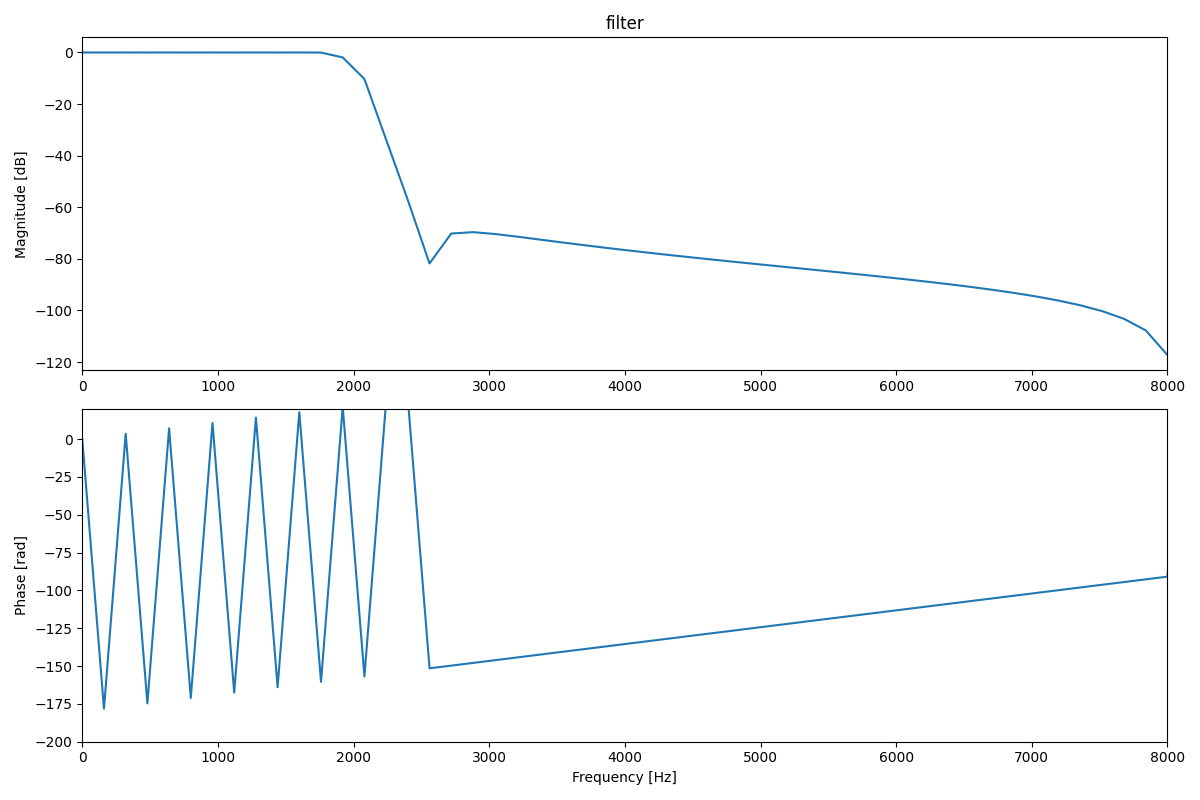
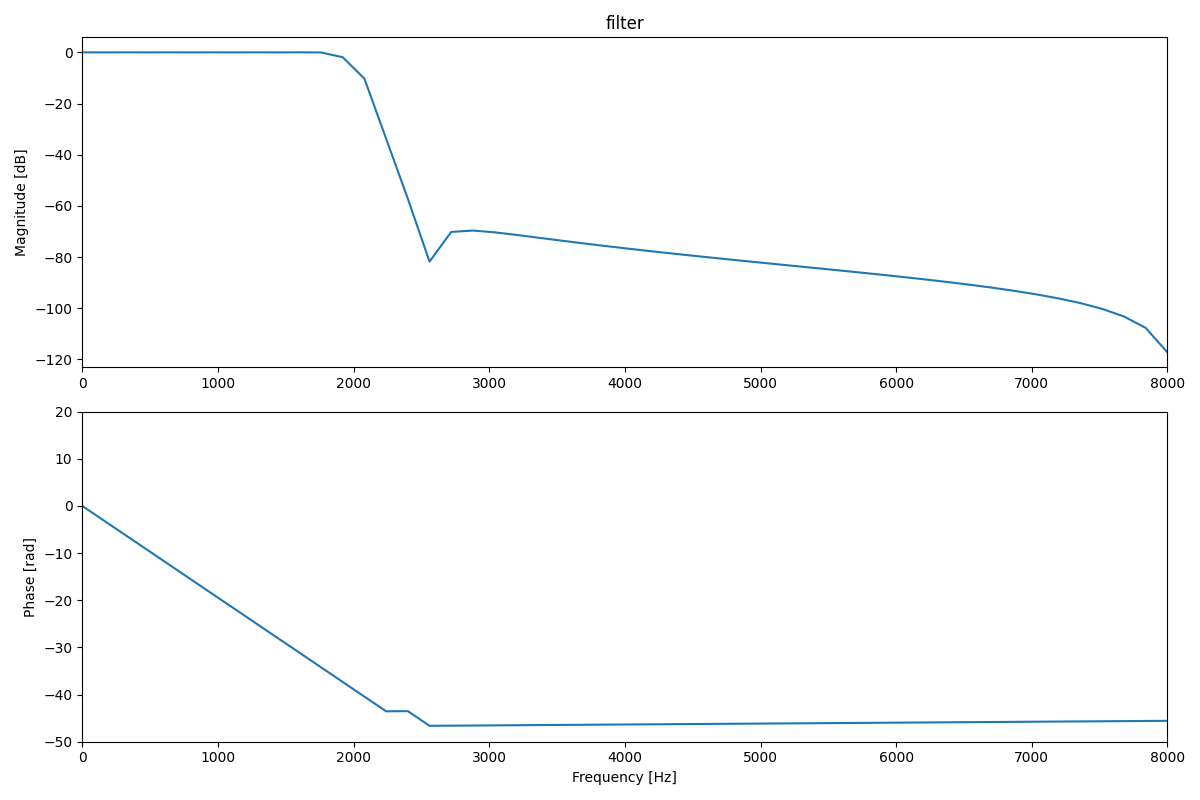
位相をunwrap & sinc関数自作

diff --git a/ex2/k_morita/filter.py b/ex2/k_morita/filter.py
@@ -5,6 +5,11 @@ import numpy as np
 import spectrogram as sp
 
 
+def sinc(x, e=1e-5):
+    """Sinc function."""
+    return np.piecewise(x, [x == 0, x != 0], [1, lambda x: np.sin(x)/x])
+
+
 def create_lpf(fc, sr, N, win_func=np.hamming):
     """Create LPF function.
 
@@ -18,7 +23,7 @@ def create_lpf(fc, sr, N, win_func=np.hamming):
         lpf (np.ndarray): low pass filter matrix
     """
     fc_norm = fc / (sr // 2)
-    ideal_lpf = np.sinc(fc_norm * (np.arange(N) - (N - 1) / 2)) * fc_norm
+    ideal_lpf = sinc(fc_norm * (np.arange(N) - (N - 1) / 2) * np.pi) * fc_norm
     window = win_func(N)
 
     return ideal_lpf * window
@@ -59,7 +64,7 @@ if __name__ == "__main__":
     filter = create_lpf(cutoff_freq, samplerate, N)
     mag, phase = sp.magphase(np.fft.fft(filter))
     mag_db = sp.mag_to_db(mag)
-    phase_deg = sp.rad_to_deg(phase)
+    phase = np.unwrap(phase)
 
     fig, axes = plt.subplots(2, 1, figsize=(12, 8))
     x = np.linspace(0, samplerate, len(mag_db))
@@ -69,13 +74,11 @@ if __name__ == "__main__":
     axes[0].set_ylabel("Magnitude [dB]")
     axes[0].set_xlim(0, nyquist_freq)
 
-    axes[1].plot(x, phase_deg)
+    axes[1].plot(x, phase)
     axes[1].set_xlabel("Frequency [Hz]")
     axes[1].set_ylabel("Phase [rad]")
     axes[1].set_xlim(0, nyquist_freq)
-    axes[1].set_ylim(-200, 20)
+    axes[1].set_ylim(-50, 20)
 
     plt.tight_layout()
     plt.savefig("filter.png")
-
-    # plt.show()
